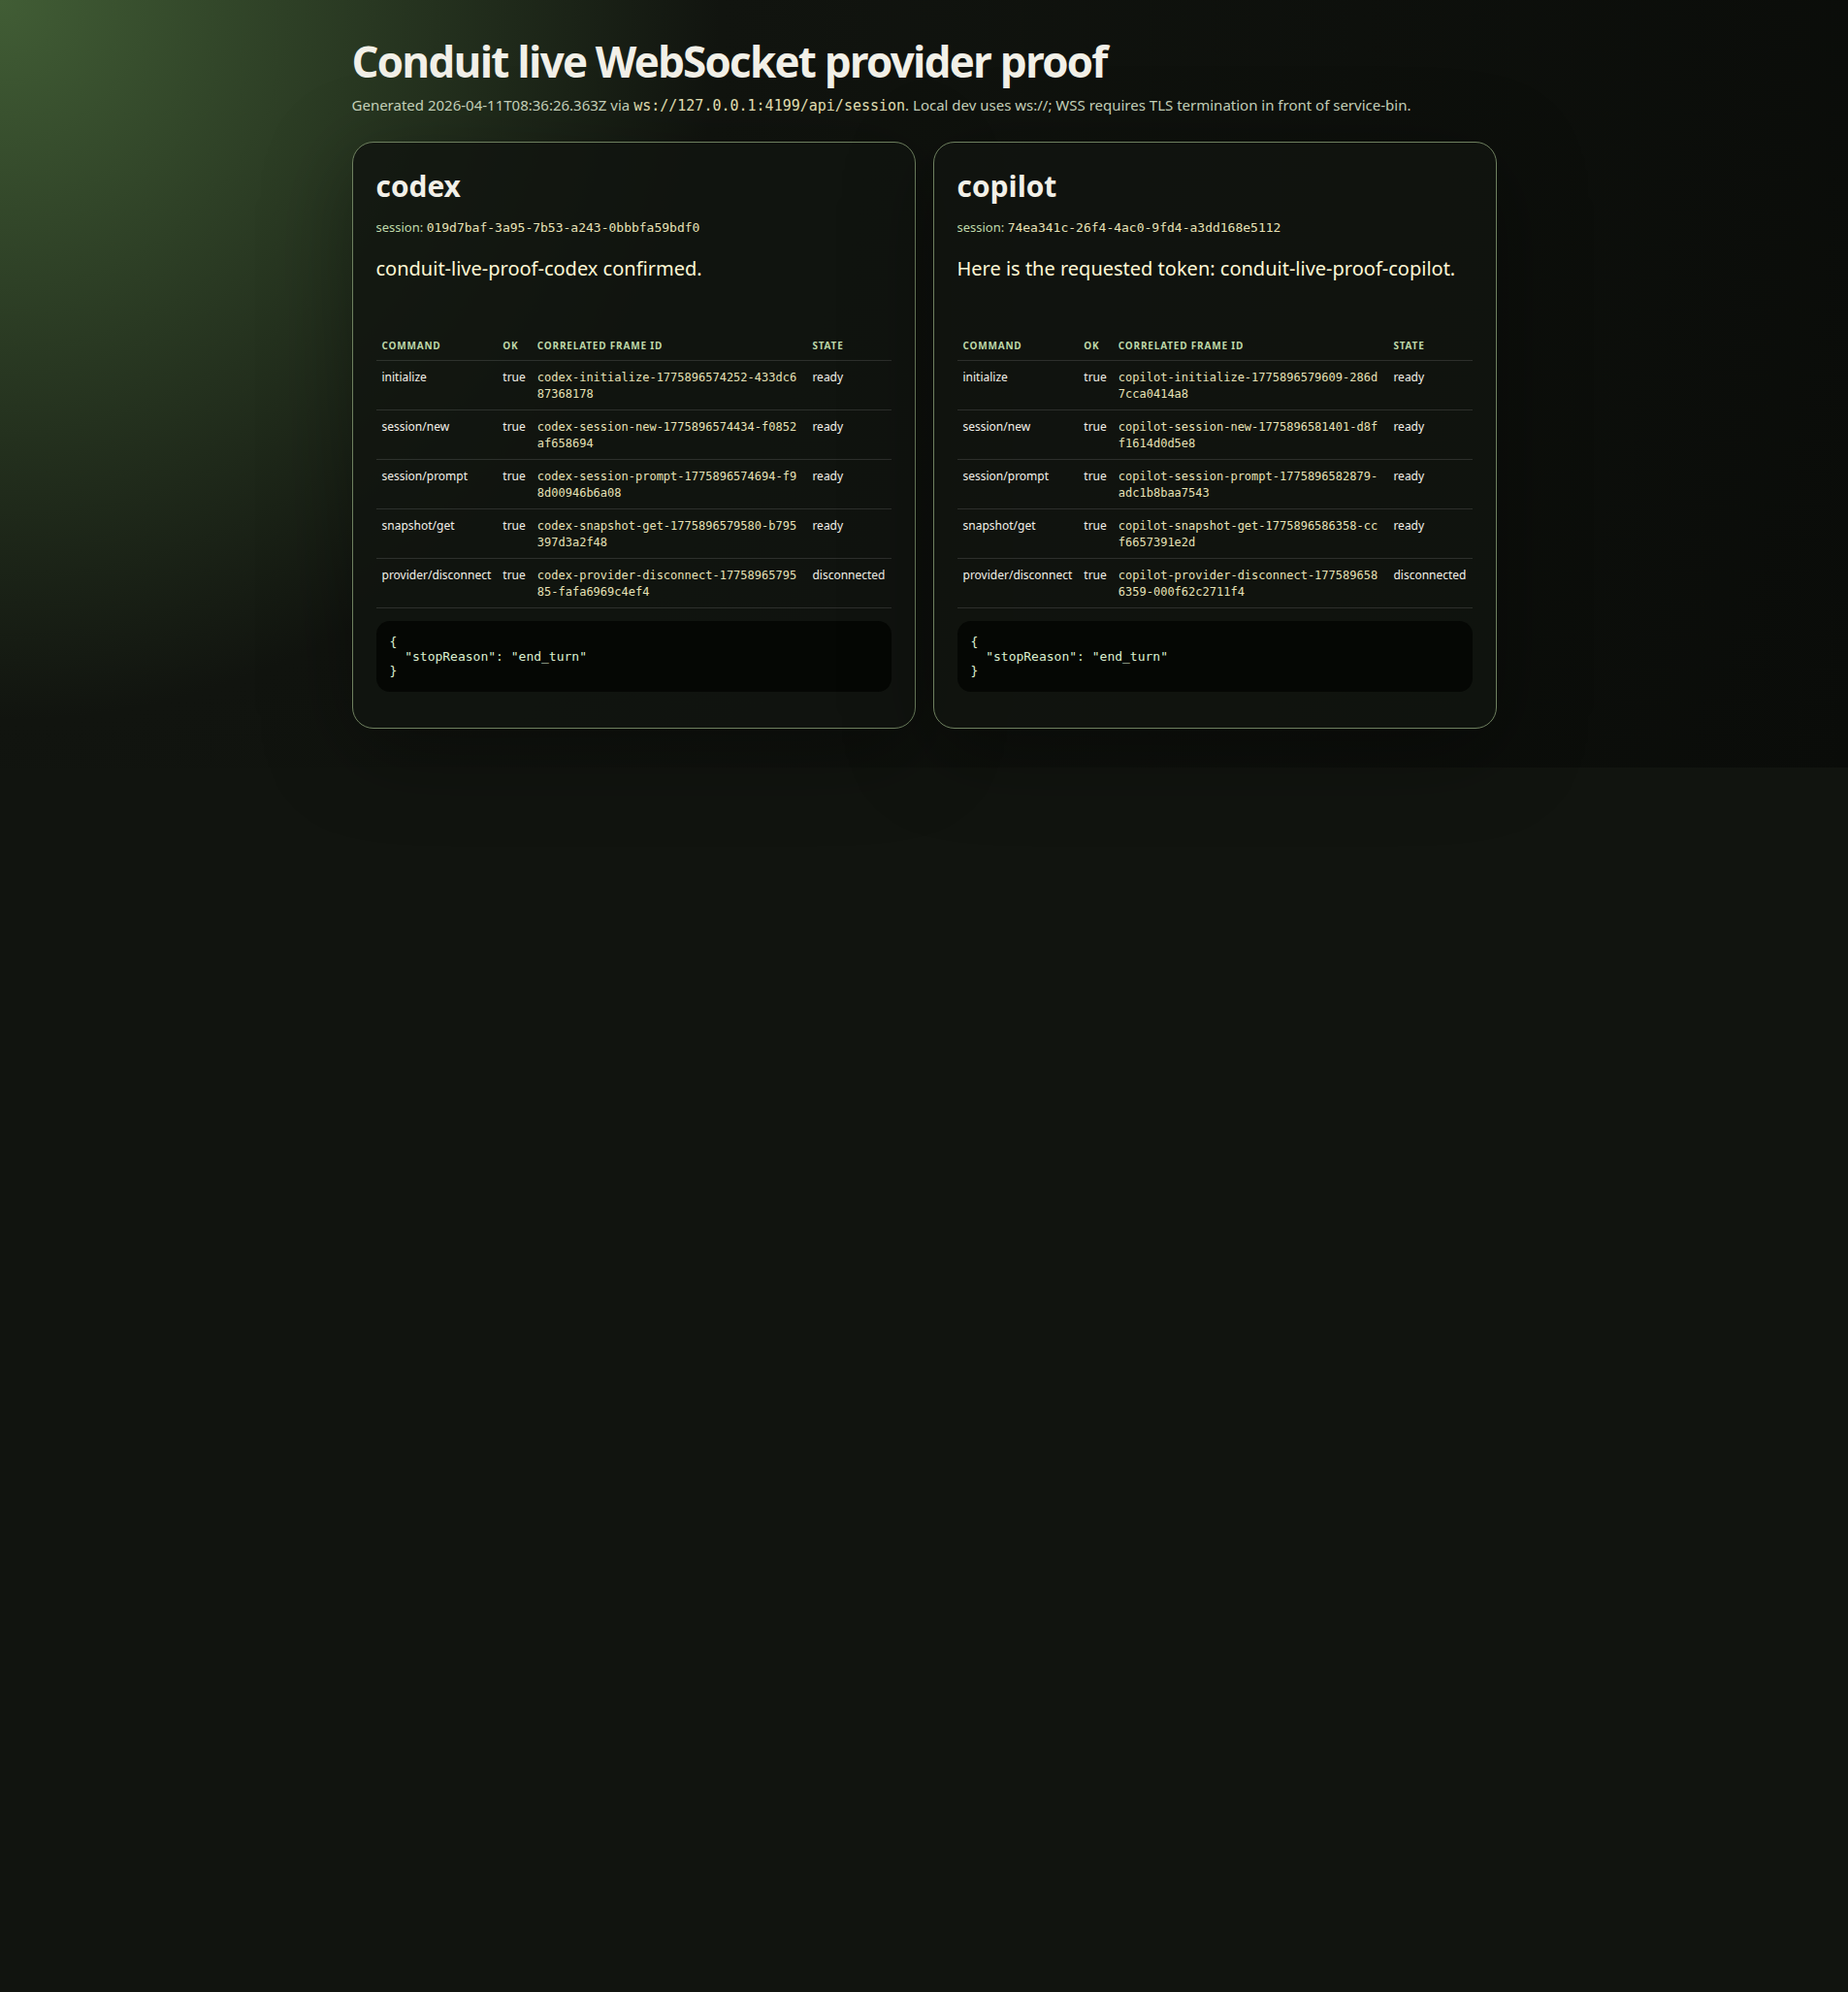
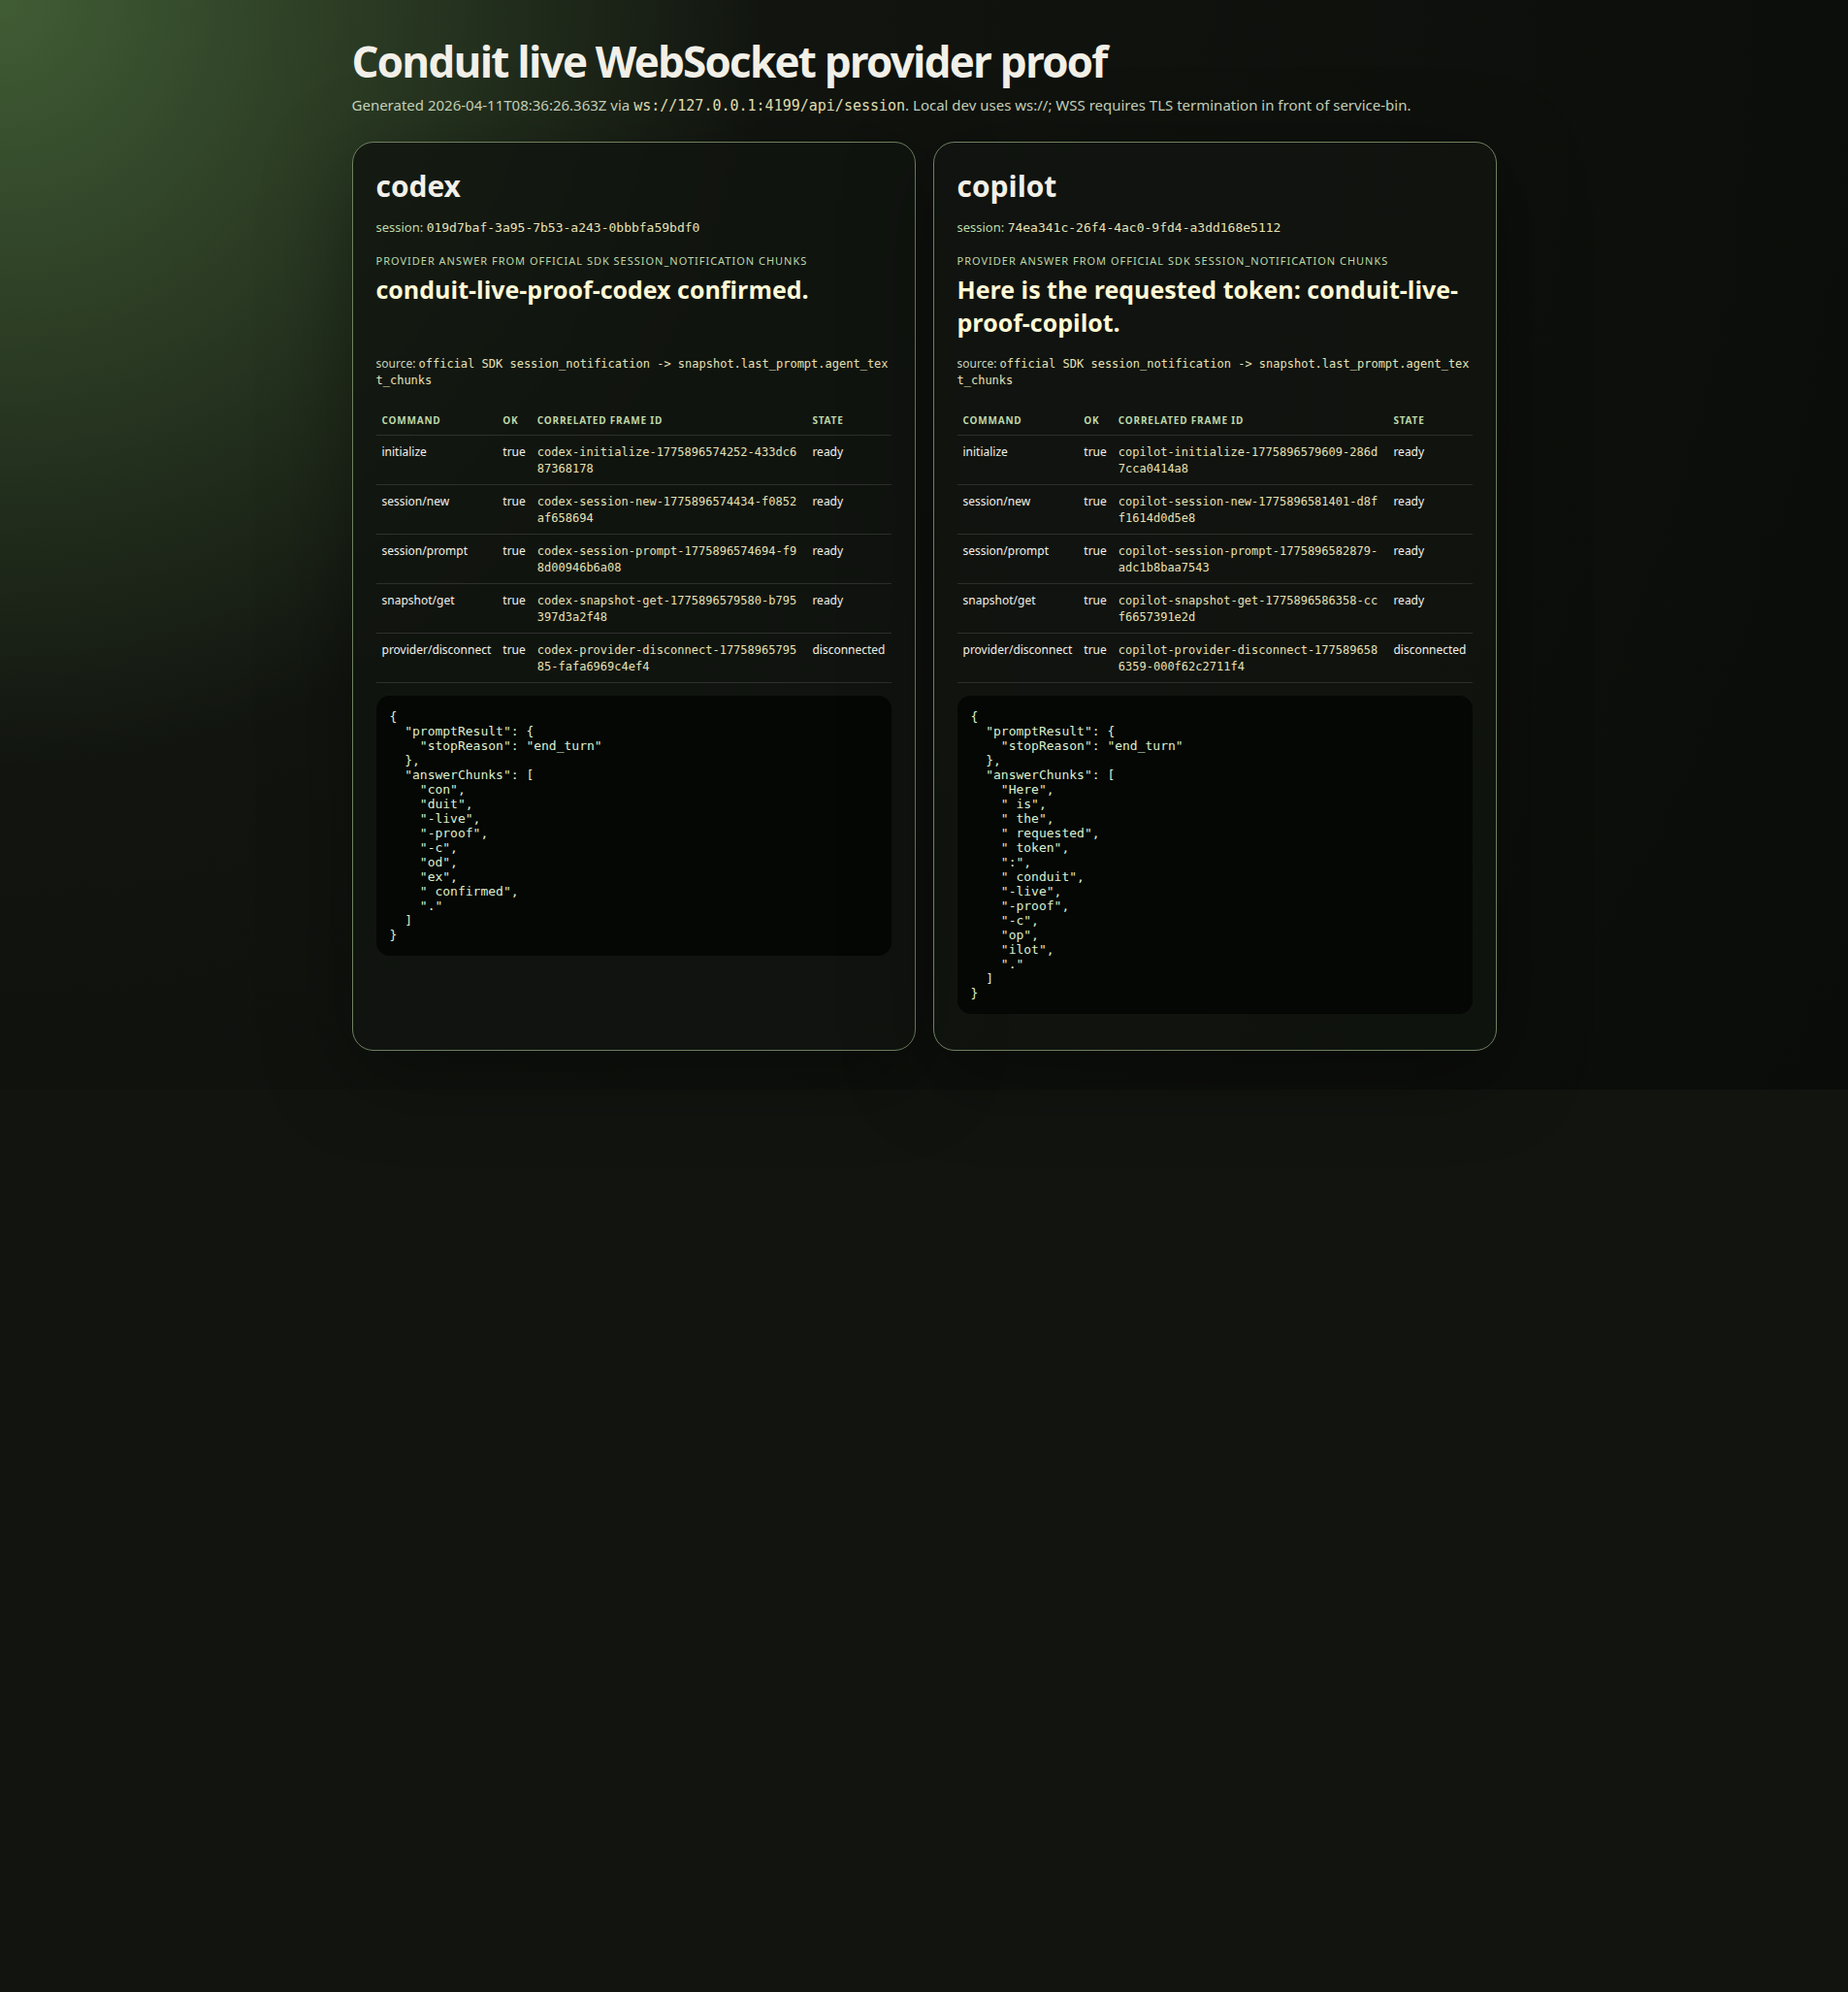
Clarify live provider answer proof

Changed region(s): [[0.1858, 0.1247, 0.4646, 0.4364], [0.5265, 0.1247, 0.7743, 0.4676]]

diff --git a/artifacts/manual/phase-1.5/ws-live-proof/screenshot.html b/artifacts/manual/phase-1.5/ws-live-proof/screenshot.html
@@ -13,12 +13,14 @@ h1 { font-size: 44px; line-height: 1.05; margin: 0 0 12px; letter-spacing: -0.04
 .card { border: 1px solid #6e805f; background: rgba(17, 20, 15, 0.84); border-radius: 22px; padding: 24px; box-shadow: 0 22px 90px rgba(0,0,0,0.35); }
 h2 { margin: 0 0 10px; font-size: 30px; }
 .session { color: #bfd8a9; font-size: 13px; }
-.agent { font-size: 20px; line-height: 1.4; min-height: 58px; color: #fff8d5; }
+.label { margin: 18px 0 6px; color: #bfd8a9; text-transform: uppercase; letter-spacing: 0.09em; font-size: 11px; }
+.answer { margin: 0; font-size: 25px; line-height: 1.35; min-height: 72px; color: #fff8d5; font-weight: 760; }
+.source { color: #c8d4bc; font-size: 12px; }
 table { border-collapse: collapse; width: 100%; font-size: 12px; margin-top: 18px; }
 th, td { border-bottom: 1px solid rgba(255,255,255,0.12); padding: 8px 6px; text-align: left; vertical-align: top; }
 th { color: #bfd8a9; text-transform: uppercase; letter-spacing: 0.08em; font-size: 10px; }
 code { color: #e6e1b5; word-break: break-all; }
-pre { background: #050704; color: #dcefcf; border-radius: 14px; padding: 14px; overflow: auto; }
+pre { background: #050704; color: #dcefcf; border-radius: 14px; padding: 14px; overflow: auto; max-height: 330px; }
 </style>
 </head>
 <body>
@@ -29,20 +31,54 @@ pre { background: #050704; color: #dcefcf; border-radius: 14px; padding: 14px; o
   <section class="card">
     <h2>codex</h2>
     <p class="session">session: <code>019d7baf-3a95-7b53-a243-0bbbfa59bdf0</code></p>
-    <p class="agent">conduit-live-proof-codex confirmed.</p>
+    <p class="label">Provider answer from official SDK session_notification chunks</p>
+    <p class="answer">conduit-live-proof-codex confirmed.</p>
+    <p class="source">source: <code>official SDK session_notification -&gt; snapshot.last_prompt.agent_text_chunks</code></p>
     <table><thead><tr><th>command</th><th>ok</th><th>correlated frame id</th><th>state</th></tr></thead><tbody><tr><td>initialize</td><td>true</td><td><code>codex-initialize-1775896574252-433dc687368178</code></td><td>ready</td></tr><tr><td>session/new</td><td>true</td><td><code>codex-session-new-1775896574434-f0852af658694</code></td><td>ready</td></tr><tr><td>session/prompt</td><td>true</td><td><code>codex-session-prompt-1775896574694-f98d00946b6a08</code></td><td>ready</td></tr><tr><td>snapshot/get</td><td>true</td><td><code>codex-snapshot-get-1775896579580-b795397d3a2f48</code></td><td>ready</td></tr><tr><td>provider/disconnect</td><td>true</td><td><code>codex-provider-disconnect-1775896579585-fafa6969c4ef4</code></td><td>disconnected</td></tr></tbody></table>
     <pre>{
-  &quot;stopReason&quot;: &quot;end_turn&quot;
+  &quot;promptResult&quot;: {
+    &quot;stopReason&quot;: &quot;end_turn&quot;
+  },
+  &quot;answerChunks&quot;: [
+    &quot;con&quot;,
+    &quot;duit&quot;,
+    &quot;-live&quot;,
+    &quot;-proof&quot;,
+    &quot;-c&quot;,
+    &quot;od&quot;,
+    &quot;ex&quot;,
+    &quot; confirmed&quot;,
+    &quot;.&quot;
+  ]
 }</pre>
   </section>
 
   <section class="card">
     <h2>copilot</h2>
     <p class="session">session: <code>74ea341c-26f4-4ac0-9fd4-a3dd168e5112</code></p>
-    <p class="agent">Here is the requested token: conduit-live-proof-copilot.</p>
+    <p class="label">Provider answer from official SDK session_notification chunks</p>
+    <p class="answer">Here is the requested token: conduit-live-proof-copilot.</p>
+    <p class="source">source: <code>official SDK session_notification -&gt; snapshot.last_prompt.agent_text_chunks</code></p>
     <table><thead><tr><th>command</th><th>ok</th><th>correlated frame id</th><th>state</th></tr></thead><tbody><tr><td>initialize</td><td>true</td><td><code>copilot-initialize-1775896579609-286d7cca0414a8</code></td><td>ready</td></tr><tr><td>session/new</td><td>true</td><td><code>copilot-session-new-1775896581401-d8ff1614d0d5e8</code></td><td>ready</td></tr><tr><td>session/prompt</td><td>true</td><td><code>copilot-session-prompt-1775896582879-adc1b8baa7543</code></td><td>ready</td></tr><tr><td>snapshot/get</td><td>true</td><td><code>copilot-snapshot-get-1775896586358-ccf6657391e2d</code></td><td>ready</td></tr><tr><td>provider/disconnect</td><td>true</td><td><code>copilot-provider-disconnect-1775896586359-000f62c2711f4</code></td><td>disconnected</td></tr></tbody></table>
     <pre>{
-  &quot;stopReason&quot;: &quot;end_turn&quot;
+  &quot;promptResult&quot;: {
+    &quot;stopReason&quot;: &quot;end_turn&quot;
+  },
+  &quot;answerChunks&quot;: [
+    &quot;Here&quot;,
+    &quot; is&quot;,
+    &quot; the&quot;,
+    &quot; requested&quot;,
+    &quot; token&quot;,
+    &quot;:&quot;,
+    &quot; conduit&quot;,
+    &quot;-live&quot;,
+    &quot;-proof&quot;,
+    &quot;-c&quot;,
+    &quot;op&quot;,
+    &quot;ilot&quot;,
+    &quot;.&quot;
+  ]
 }</pre>
   </section></div>
 </main>

diff --git a/artifacts/manual/phase-1.5/ws-live-proof/summary.md b/artifacts/manual/phase-1.5/ws-live-proof/summary.md
@@ -2,13 +2,17 @@
 
 Endpoint: `ws://127.0.0.1:4199/api/session`
 
+This proof includes real provider answers captured from official SDK `session_notification` chunks, surfaced at `snapshot.last_prompt.agent_text_chunks`.
+
 ## codex
 
 Commands: initialize=true, session/new=true, session/prompt=true, snapshot/get=true, provider/disconnect=true
 
 Session: `019d7baf-3a95-7b53-a243-0bbbfa59bdf0`
 
-Agent text:
+Provider answer source: `official SDK session_notification -> snapshot.last_prompt.agent_text_chunks`
+
+Provider answer:
 
 > conduit-live-proof-codex confirmed.
 
@@ -26,7 +30,9 @@ Commands: initialize=true, session/new=true, session/prompt=true, snapshot/get=t
 
 Session: `74ea341c-26f4-4ac0-9fd4-a3dd168e5112`
 
-Agent text:
+Provider answer source: `official SDK session_notification -> snapshot.last_prompt.agent_text_chunks`
+
+Provider answer:
 
 > Here is the requested token: conduit-live-proof-copilot.
 
